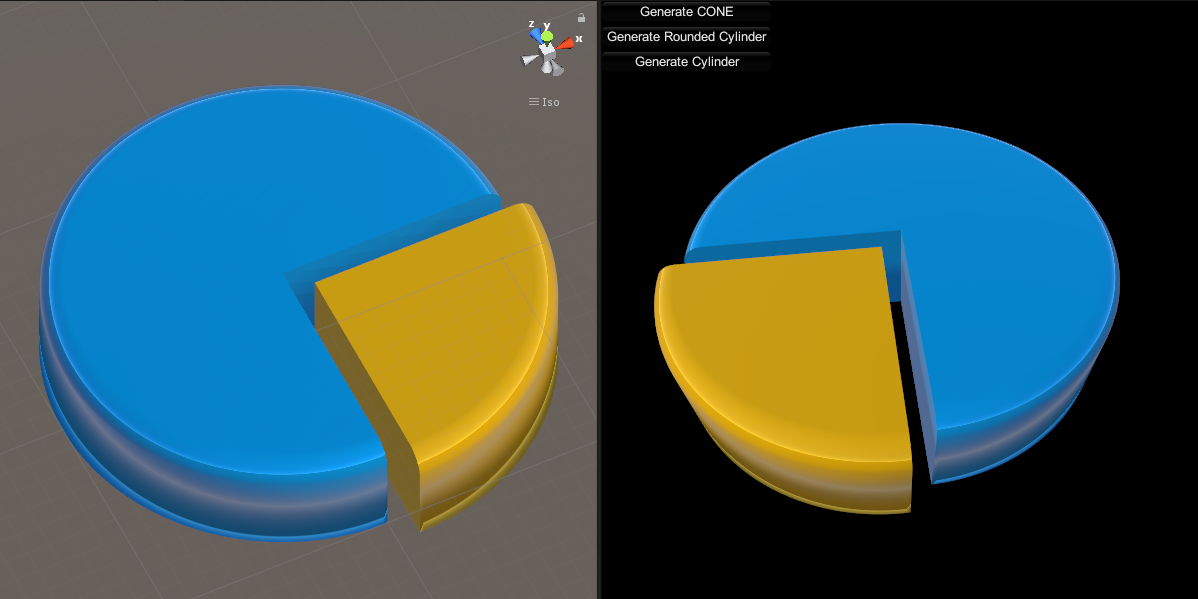
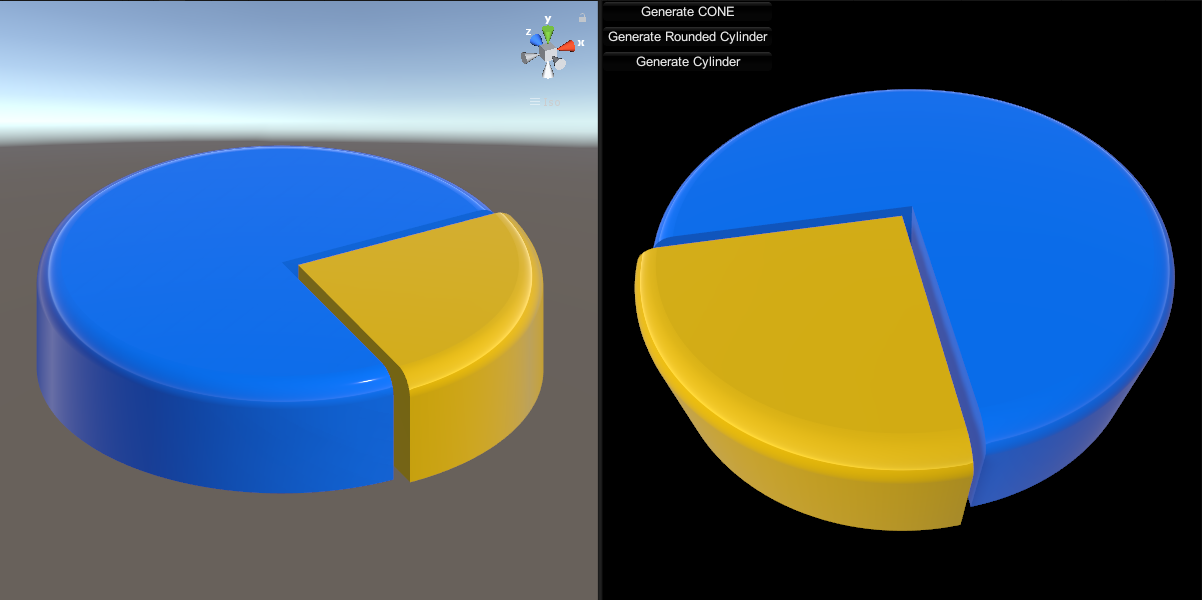
fixed issues # roundedcylindergeometry's normal  in wrong direction.
new feature : support customize hollow radius.

diff --git a/UChart/Assets/UChart/Helpers/UChartMeshMonitor.cs b/UChart/Assets/UChart/Helpers/UChartMeshMonitor.cs
@@ -1,0 +1,51 @@
+
+using UnityEngine;
+
+namespace UChart
+{
+    // TODO: 支持rotation && scale
+    // TODO: 支持颜色自定义
+    public class UChartMeshMonitor : MonoBehaviour
+    {
+        public bool selectShow = true;
+        public bool showNormal = true;
+        public float normalLength = 0.2f;
+        public bool colorful = true;
+
+        private void OnDrawGizmos()
+        {
+            if(selectShow)
+                return;
+            OnDrawGizmosSelected();
+        }
+
+        private void OnDrawGizmosSelected()
+        {
+            MeshFilter[] meshFilters = this.gameObject.GetComponentsInChildren<MeshFilter>();
+
+            if(null == meshFilters)
+                return;
+
+            foreach(var meshFilter in meshFilters)
+            {
+                if(null == meshFilter.sharedMesh)
+                    continue;
+                var mesh = meshFilter.sharedMesh;
+                var normals = mesh.normals;
+                var vertices = mesh.vertices;
+                for(int i = 0; i < normals.Length; i++)
+                {
+                    var normal = normals[i];
+                    var from = vertices[i] + meshFilter.transform.position;
+                    var to = from + normal * normalLength;
+                    if(showNormal)
+                    {
+                        if(colorful)
+                            Gizmos.color = Color.Lerp(Color.red,Color.green,i * 1.0f / normals.Length);
+                        Gizmos.DrawLine(from,to);
+                    }
+                }
+            }
+        }
+    }
+}

diff --git a/UChart/Assets/UChart/Example/BaseComponents/Geometry/GeometryTest.cs b/UChart/Assets/UChart/Example/BaseComponents/Geometry/GeometryTest.cs
@@ -4,6 +4,8 @@ namespace UChart.Test
 {
     public class GeometryTest : MonoBehaviour
     {
+        public Material pie3dMaterial;
+
         private void OnGUI()
         {
             if( GUILayout.Button("Generate CONE"))
@@ -73,7 +75,7 @@ namespace UChart.Test
                 mesh.RecalculateNormals();
                 mesh.RecalculateTangents();
                 meshFilter.mesh = mesh;
-                meshRenderer.material = new Material(Shader.Find("Standard"));
+                meshRenderer.material = GameObject.Instantiate<Material>(pie3dMaterial);
             }
         }
 
